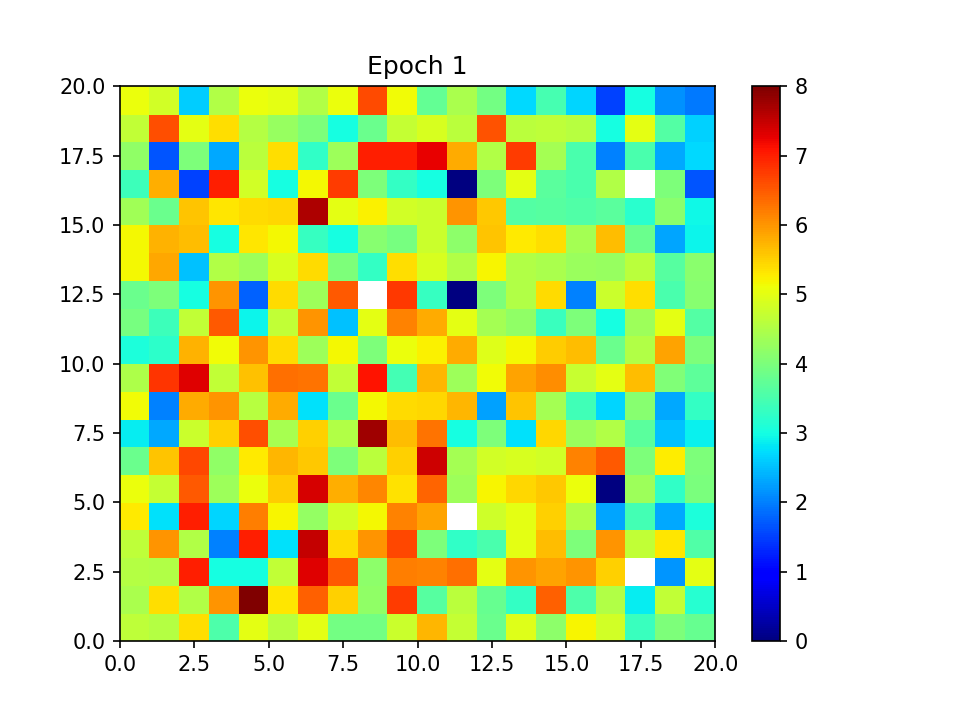
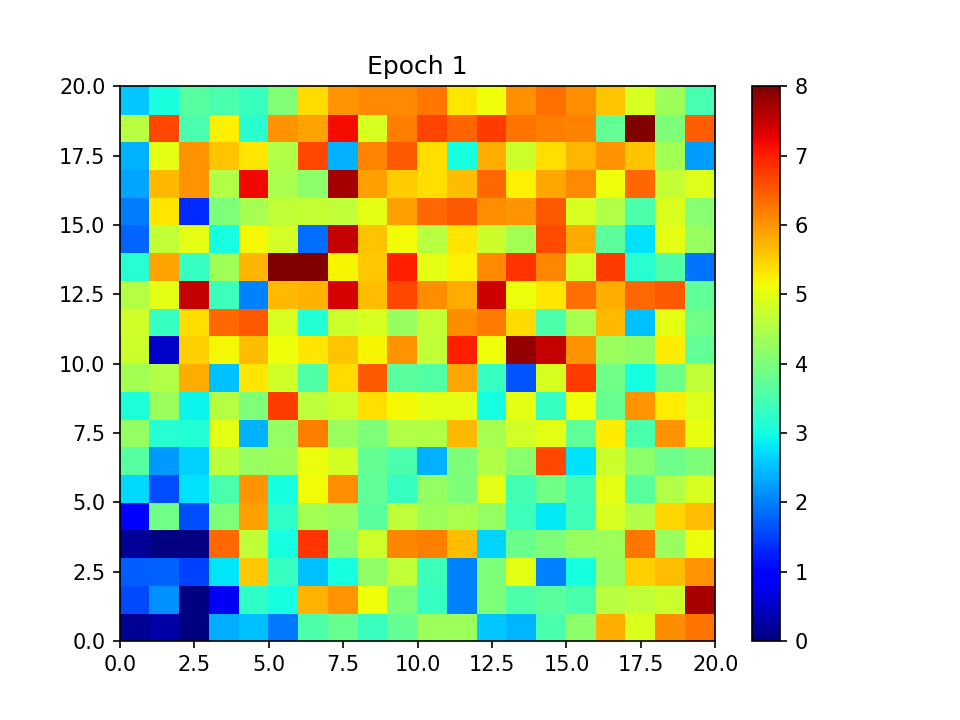
Stuff

diff --git a/SOM.py b/SOM.py
@@ -177,11 +177,13 @@ class SOM:
                 Utilities.print_progress(n_cases_to_run, counter, i, radius, l_rate) if j % 10 == 0 else NoOp
 
             if self.mnist:
-                Utilities.average_memory(memory)
-                plot_mnist_color(memory, i) if i % self.display_interval == 0 else NoOp
+                if i % self.display_interval == 0 or i == self.n_epochs - 1:
+                    Utilities.average_memory(memory)
+                    plot_mnist_color(memory, i)
             else:
-                self.tsm_visualizer.update_weights(self.weights) if i % self.display_interval == 0 else NoOp
-                self.create_tsm_solution(i) if i % self.display_interval == 0 else NoOp
+                if i % self.display_interval == 0 or i == self.n_epochs - 1:
+                    self.tsm_visualizer.update_weights(self.weights)
+                    self.create_tsm_solution(i)
 
         print("\n\nDone Training\n")
 
@@ -199,7 +201,7 @@ def main(mnist: bool, city_number: int=1):
                   labels=mnist_labels,
                   test_features=mnist_test_features,
                   test_labels=mnist_test_labels,
-                  n_epochs=15,
+                  n_epochs=10,
                   initial_radius=5,
                   initial_l_rate=0.7,
                   radius_decay_func="power",
@@ -242,6 +244,7 @@ def main(mnist: bool, city_number: int=1):
 
 if __name__ == "__main__":
     # cProfile.run("main(False, 1)")
+    # cProfile.run("main(True)")
     main(True, 1)
 
 
